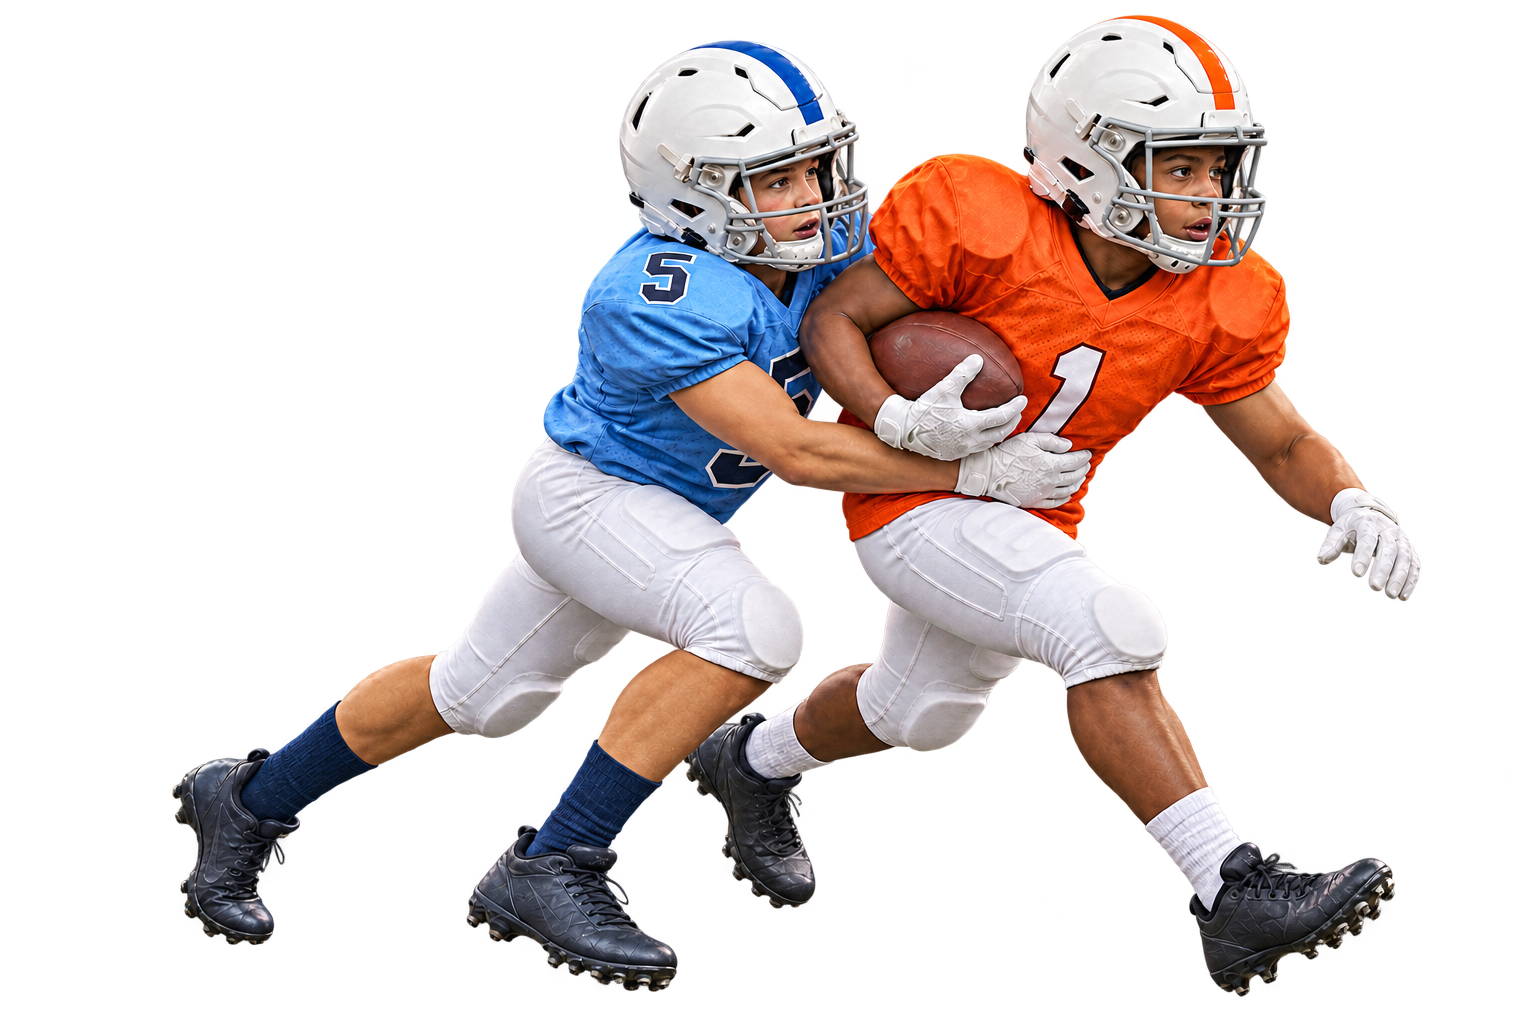
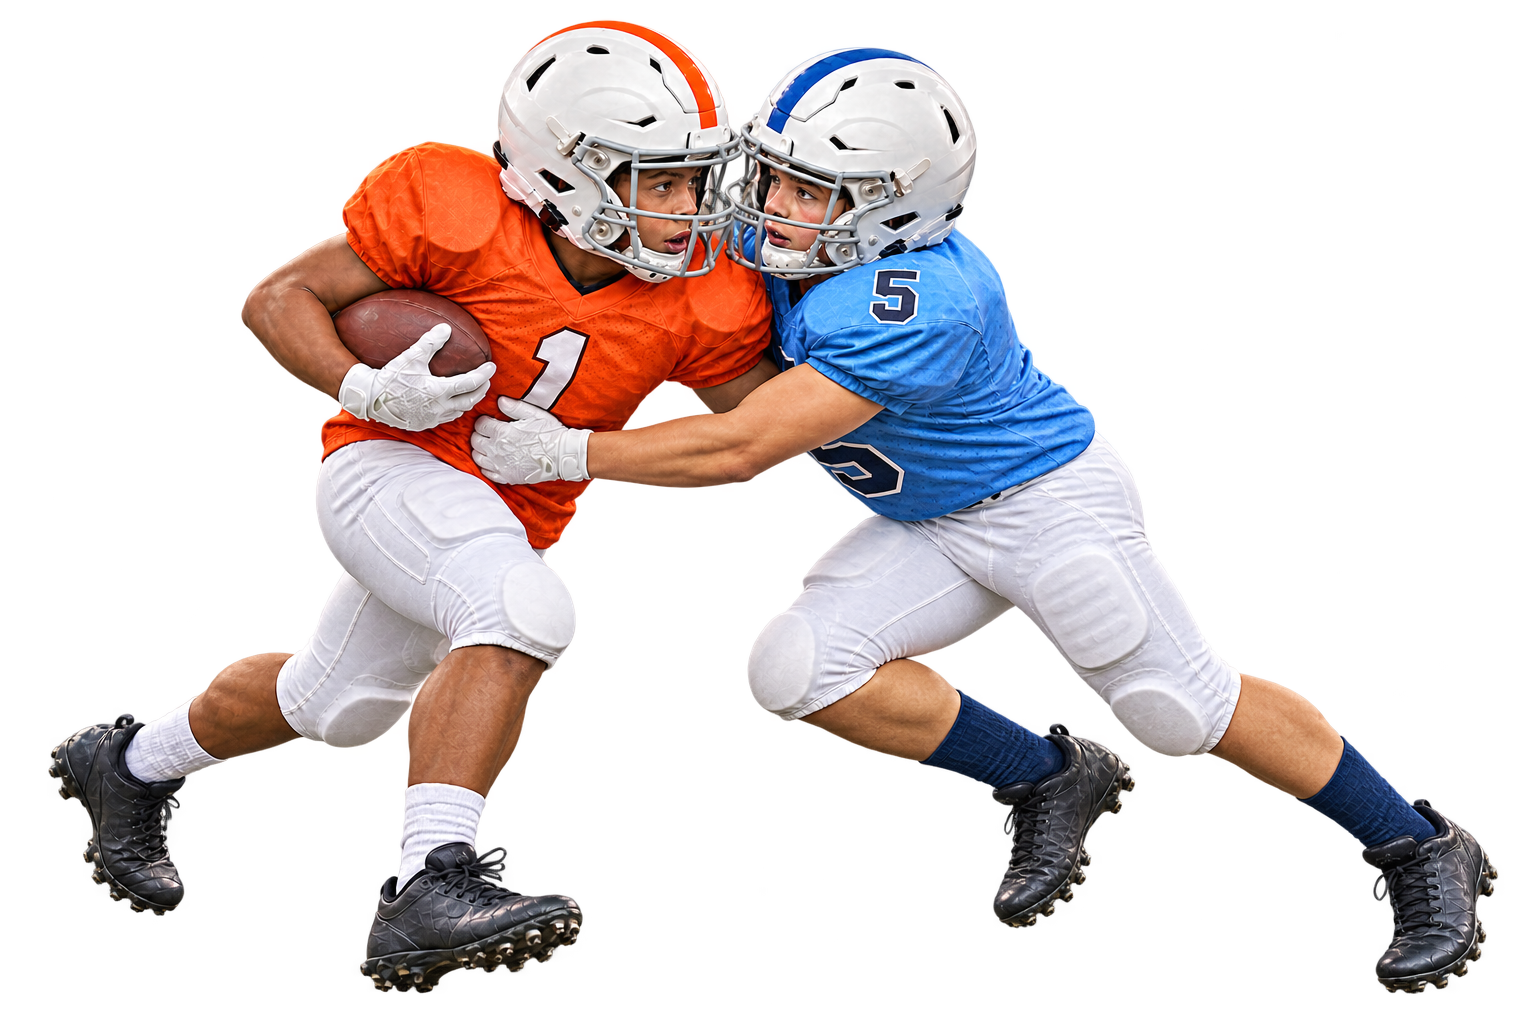
Fix player direction and scale slides for embeds

diff --git a/assets/course.css b/assets/course.css
@@ -37,3 +37,10 @@ img.football-player.rendered-player{display:block;width:100%;height:auto;aspect-
 /* Solo teaching poses use the available field space for readable equipment and posture. */
 .teach-panel .field[data-scene=breakdown] .defender,.teach-panel .field[data-scene=eyes] .defender,.teach-panel .field[data-scene=coach] .defender{width:265px}
 @media(max-width:1399px),(max-height:789px){.teach-panel .field[data-scene=breakdown] .defender,.teach-panel .field[data-scene=eyes] .defender,.teach-panel .field[data-scene=coach] .defender{width:245px}}
+
+/* Scale the complete authored stage as one unit in embedded Canva/mobile previews. */
+.app-shell{position:fixed;left:50%;top:50%;width:1440px;height:810px;flex:none;transform:scale(var(--stage-scale,1)) translate(-50%,-50%);transform-origin:top left}
+
+/* Every solo figure stays fully inside its field; no cropped helmets or cleats. */
+.field .player-actor:not(.contact-pair){top:8%!important;bottom:auto!important;height:84%}
+.field .player-actor:not(.contact-pair) .rendered-player{width:100%;height:100%;aspect-ratio:auto;object-fit:contain;object-position:center center}

diff --git a/assets/course.js b/assets/course.js
@@ -10,5 +10,13 @@
     function nextSlide(){if(current<slides.length-1)goTo(current+1)}function previousSlide(){if(current>0)goTo(current-1)}
     function complete(id,points=8){if(!state.completed.has(id)){state.completed.add(id);state.score+=points;updateUI()}}function addCue(cue){if(!state.cues.includes(cue))state.cues.push(cue)}
 
+    // Keep the authored 16:9 stage intact inside narrow Canva and mobile previews.
+    function fitCourseStage(){
+      const scale=Math.min(window.innerWidth/1440,window.innerHeight/810);
+      document.documentElement.style.setProperty('--stage-scale',String(scale));
+    }
+    fitCourseStage();
+    window.addEventListener('resize',fitCourseStage,{passive:true});
+
 // Preserve the original keyboard navigation, with form controls left to native keyboard behavior.
 document.addEventListener("keydown",e=>{if(e.target.matches("button,input,select,textarea"))return;if(e.key==="ArrowRight")nextSlide();if(e.key==="ArrowLeft")previousSlide()});
